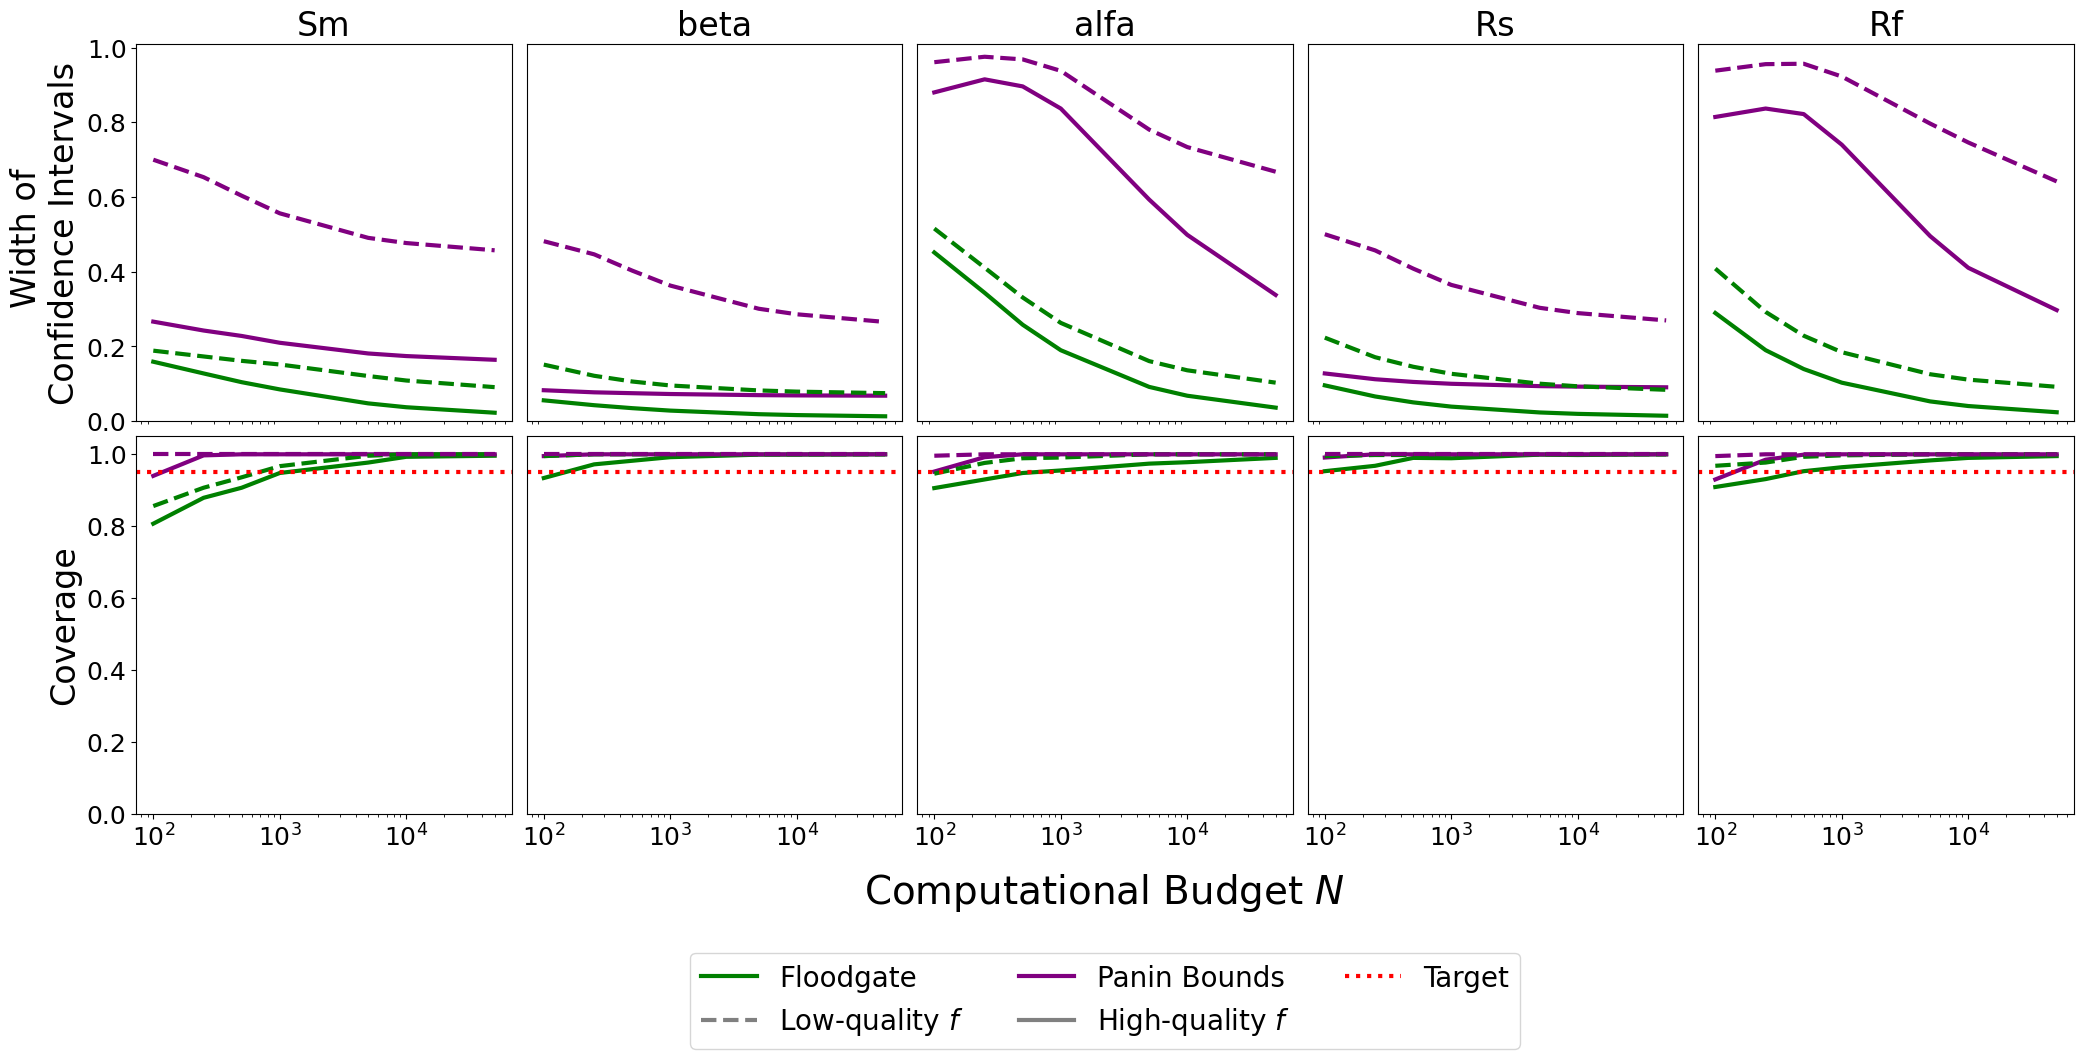
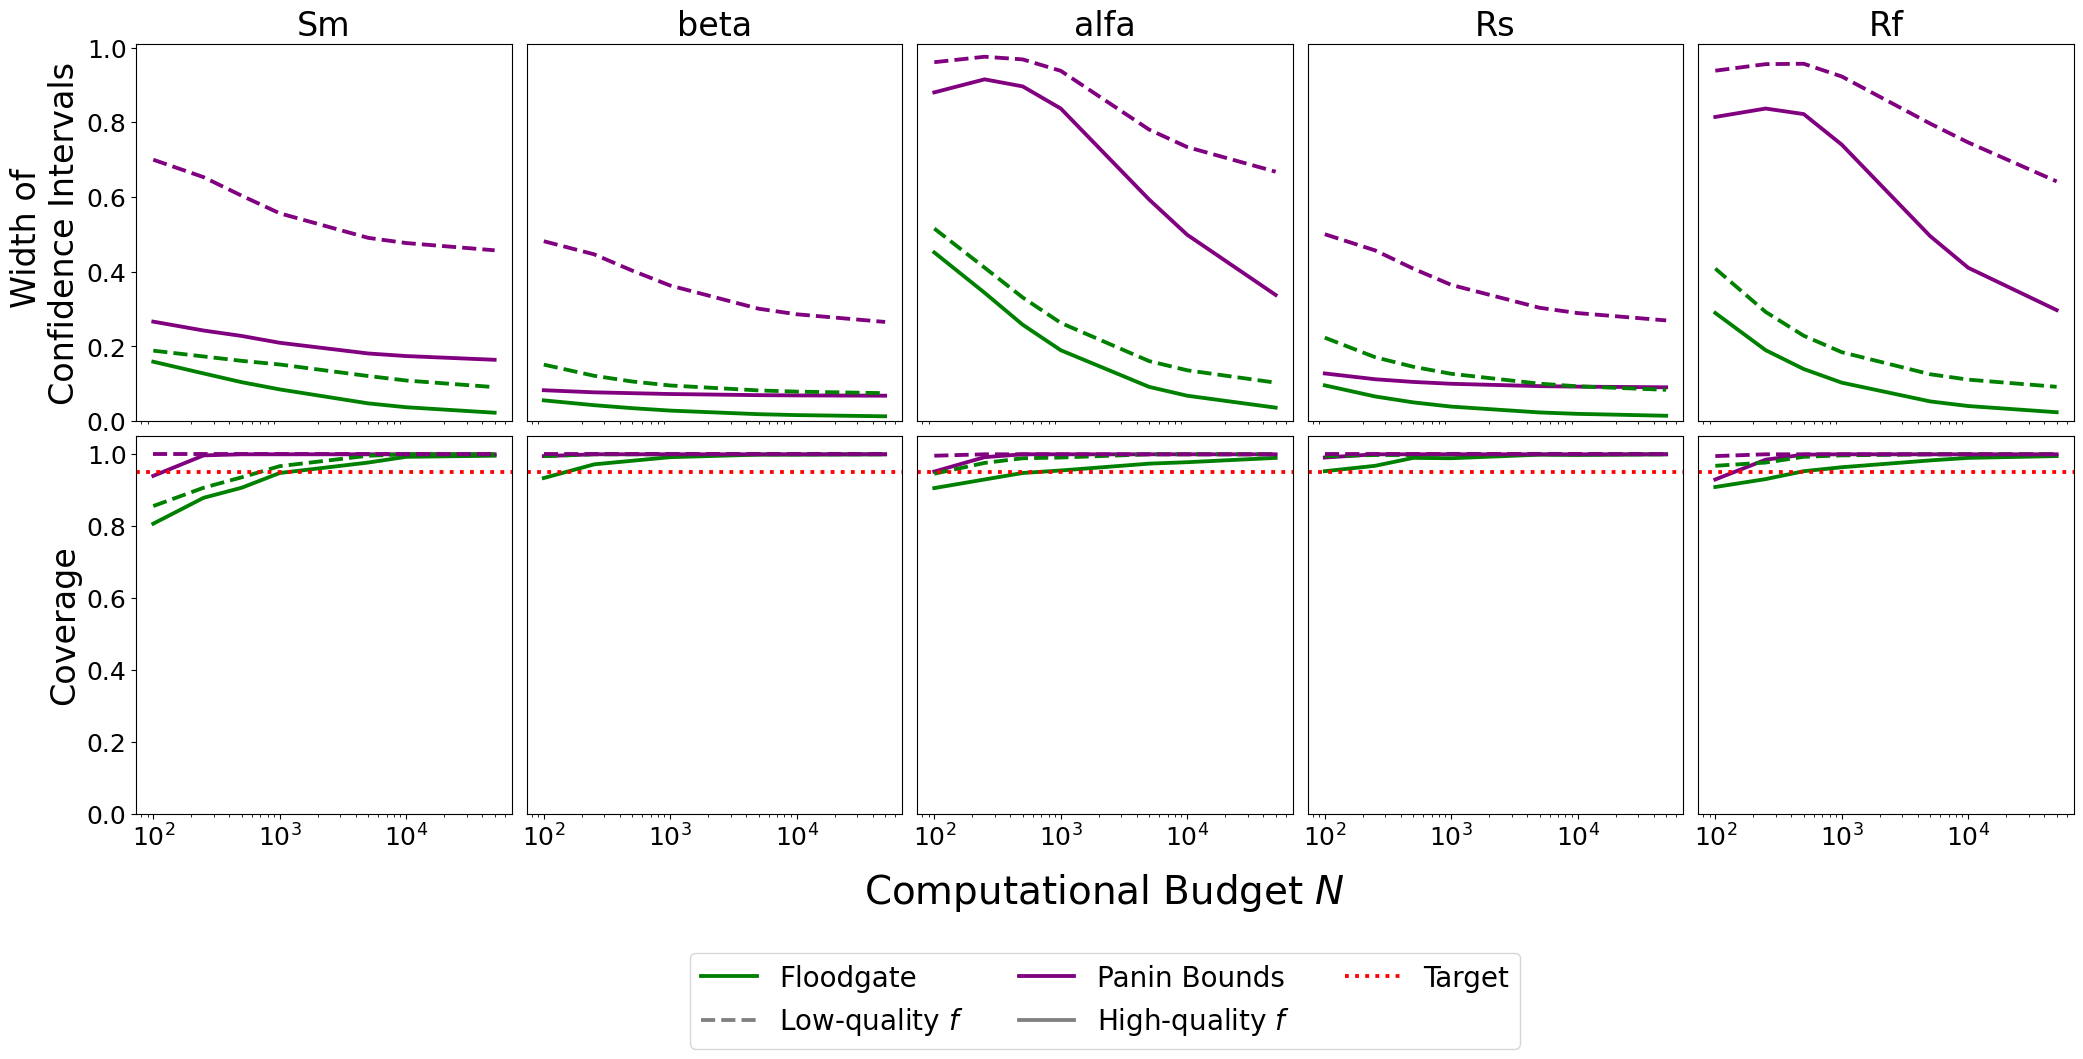
reformatted plots

diff --git a/plotting_scripts/Hymod.py b/plotting_scripts/Hymod.py
@@ -21,19 +21,21 @@ gt = np.load(DATA_DIR.format('.','.') + 'ground_truth.npy')
 
 
 # Plot formatting
+lw = 2.75
+
 SMALL_SIZE = 12
 MEDIUM_SIZE = 20
 BIG_SIZE = 24
 BIGGER_SIZE = 30
 HUGE_SIZE = 32
 
-plt.rc('font', size=SMALL_SIZE)          # controls default text sizes
+plt.rc('font', size=SMALL_SIZE)           # controls default text sizes
 plt.rc('axes', titlesize=BIGGER_SIZE)     # fontsize of the axes title
-plt.rc('axes', labelsize=BIGGER_SIZE)    # fontsize of the x and y labels
+plt.rc('axes', labelsize=BIGGER_SIZE)     # fontsize of the x and y labels
 plt.rc('xtick', labelsize=MEDIUM_SIZE)    # fontsize of the tick labels
 plt.rc('ytick', labelsize=MEDIUM_SIZE)    # fontsize of the tick labels
-plt.rc('legend', fontsize=BIG_SIZE)    # legend fontsize
-plt.rc('figure', titlesize=BIGGER_SIZE)  # fontsize of the figure title
+plt.rc('legend', fontsize=BIG_SIZE)       # legend fontsize
+plt.rc('figure', titlesize=BIGGER_SIZE)   # fontsize of the figure title
 
 
 ### Figure 1 ###
@@ -51,11 +53,11 @@ floodgate_mean = np.mean(floodgate, axis=0)
 floodgate_cov = np.mean((floodgate[:,:,:,0] < gt) * (floodgate[:,:,:,1] > gt), axis=0)
 
 for i in range(d):
-    ax[0,i].plot(sample_sizes, floodgate_mean[:,i,0], color='green', ls='-', lw=3, label='Floodgate')
-    ax[0,i].plot(sample_sizes, floodgate_mean[:,i,1], color='green', ls='-', lw=3)
-    ax[1,i].plot(sample_sizes, floodgate_cov[:,i], color='green', ls='-', lw=3)
+    ax[0,i].plot(sample_sizes, floodgate_mean[:,i,0], color='green', ls='-', lw=lw, label='Floodgate')
+    ax[0,i].plot(sample_sizes, floodgate_mean[:,i,1], color='green', ls='-', lw=lw)
+    ax[1,i].plot(sample_sizes, floodgate_cov[:,i], color='green', ls='-', lw=lw)
 
-ax[0,2].plot([0], [20], color='grey', ls='--', lw=3, label='Low-quality $f$')
+ax[0,2].plot([0], [20], color='grey', ls='--', lw=lw, label='Low-quality $f$')
 
 # Non-surrogate SPF
 for fp in os.listdir(DATA_DIR.format('spf', '.')):
@@ -65,11 +67,11 @@ spf_mean = np.mean(spf, axis=0)
 spf_cov = np.mean((spf[:,:,:,0] < gt) * (spf[:,:,:,1] > gt), axis=0)
 
 for i in range(d):
-    ax[0,i].plot(sample_sizes, spf_mean[:,i,0], color='blue', ls='-', lw=3, label='SPF $f^*$')
-    ax[0,i].plot(sample_sizes, spf_mean[:,i,1], color='blue', ls='-', lw=3)
-    ax[1,i].plot(sample_sizes, spf_cov[:,i], color='blue', ls='-', lw=3)
+    ax[0,i].plot(sample_sizes, spf_mean[:,i,0], color='blue', ls='-', lw=lw, label='SPF $f^*$')
+    ax[0,i].plot(sample_sizes, spf_mean[:,i,1], color='blue', ls='-', lw=lw)
+    ax[1,i].plot(sample_sizes, spf_cov[:,i], color='blue', ls='-', lw=lw)
 
-ax[0,2].plot([0], [20], color='grey', ls='-', lw=3, label='High-quality $f$')
+ax[0,2].plot([0], [20], color='grey', ls='-', lw=lw, label='High-quality $f$')
 
 # Surrogate SPF, high-quality surrogate
 for fp in os.listdir(DATA_DIR.format('spf_surrogate', '100000')):
@@ -79,9 +81,9 @@ spf_surrogate_mean = np.mean(spf_surrogate, axis=0)
 spf_surrogate_cov = np.mean((spf_surrogate[:,:,:,0] < gt) * (spf_surrogate[:,:,:,1] > gt), axis=0)
 
 for i in range(d):
-    ax[0,i].plot(sample_sizes, spf_surrogate_mean[:,i,0], color='orange', ls='-', lw=3, label='SPF $f$')
-    ax[0,i].plot(sample_sizes, spf_surrogate_mean[:,i,1], color='orange', ls='-', lw=3)
-    ax[1,i].plot(sample_sizes, spf_surrogate_cov[:,i], color='orange', ls='-', lw=3)
+    ax[0,i].plot(sample_sizes, spf_surrogate_mean[:,i,0], color='orange', ls='-', lw=lw, label='SPF $f$')
+    ax[0,i].plot(sample_sizes, spf_surrogate_mean[:,i,1], color='orange', ls='-', lw=lw)
+    ax[1,i].plot(sample_sizes, spf_surrogate_cov[:,i], color='orange', ls='-', lw=lw)
 
 
 floodgate = []
@@ -95,9 +97,9 @@ floodgate_mean = np.mean(floodgate, axis=0)
 floodgate_cov = np.mean((floodgate[:,:,:,0] < gt) * (floodgate[:,:,:,1] > gt), axis=0)
 
 for i in range(d):
-    ax[0,i].plot(sample_sizes, floodgate_mean[:,i,0], color='green', ls='--', lw=3)
-    ax[0,i].plot(sample_sizes, floodgate_mean[:,i,1], color='green', ls='--', lw=3)
-    ax[1,i].plot(sample_sizes, floodgate_cov[:,i], color='green', ls='--', lw=3)
+    ax[0,i].plot(sample_sizes, floodgate_mean[:,i,0], color='green', ls='--', lw=lw)
+    ax[0,i].plot(sample_sizes, floodgate_mean[:,i,1], color='green', ls='--', lw=lw)
+    ax[1,i].plot(sample_sizes, floodgate_cov[:,i], color='green', ls='--', lw=lw)
 
 # Surrogate SPF, low-quality surrogate
 for fp in os.listdir(DATA_DIR.format('spf_surrogate', '10000')):
@@ -107,9 +109,9 @@ spf_surrogate_mean = np.mean(spf_surrogate, axis=0)
 spf_surrogate_cov = np.mean((spf_surrogate[:,:,:,0] < gt) * (spf_surrogate[:,:,:,1] > gt), axis=0)
 
 for i in range(d):
-    ax[0,i].plot(sample_sizes, spf_surrogate_mean[:,i,0], color='orange', ls='--', lw=3)
-    ax[0,i].plot(sample_sizes, spf_surrogate_mean[:,i,1], color='orange', ls='--', lw=3)
-    ax[1,i].plot(sample_sizes, spf_surrogate_cov[:,i], color='orange', ls='--', lw=3)
+    ax[0,i].plot(sample_sizes, spf_surrogate_mean[:,i,0], color='orange', ls='--', lw=lw)
+    ax[0,i].plot(sample_sizes, spf_surrogate_mean[:,i,1], color='orange', ls='--', lw=lw)
+    ax[1,i].plot(sample_sizes, spf_surrogate_cov[:,i], color='orange', ls='--', lw=lw)
 
 
 
@@ -118,8 +120,8 @@ x_tick_labs = ['100', '1000', '10000', '100000']
 for i in range(d):
     ax[0,i].set(xscale='log', title=X_labels[i], ylim=(-.01,1))
     ax[1,i].set(xticks=x_ticks, xscale='log')
-    ax[0,i].axhline(y=gt[i], color='red', ls=':', lw=3, label='Target')
-    ax[1,i].axhline(y=0.95, color='red', ls=':', lw=3)
+    ax[0,i].axhline(y=gt[i], color='red', ls=':', lw=lw, label='Target')
+    ax[1,i].axhline(y=0.95, color='red', ls=':', lw=lw)
     ax[1,i].set_ylim((0,1.05))
     if i > 0:
         ax[0,i].set_yticks([])
@@ -171,10 +173,10 @@ floodgate_mean = np.mean(floodgate[:,:,:,1] - floodgate[:,:,:,0], axis=0)
 floodgate_cov = np.mean((floodgate[:,:,:,0] < gt) * (floodgate[:,:,:,1] > gt), axis=0)
 
 for i in range(d):
-    ax[0,i].plot(sample_sizes, floodgate_mean[:,i], color='green', ls='-', lw=3, label='Floodgate')
-    ax[1,i].plot(sample_sizes, floodgate_cov[:,i], color='green', ls='-', lw=3)
+    ax[0,i].plot(sample_sizes, floodgate_mean[:,i], color='green', ls='-', lw=lw, label='Floodgate')
+    ax[1,i].plot(sample_sizes, floodgate_cov[:,i], color='green', ls='-', lw=lw)
 
-ax[0,2].plot([0], [20], color='grey', ls='--', lw=3, label='Low-quality $f$')
+ax[0,2].plot([0], [20], color='grey', ls='--', lw=lw, label='Low-quality $f$')
 
 # Panin bound, high-quality surrogate
 for fp in os.listdir(DATA_DIR.format('panin', 100000)):
@@ -184,10 +186,10 @@ panin_mean = np.mean(panin[:,:,:,1] - panin[:,:,:,0], axis=0)
 panin_cov = np.mean((panin[:,:,:,0] < gt) * (panin[:,:,:,1] > gt), axis=0)
 
 for i in range(d):
-    ax[0,i].plot(sample_sizes, panin_mean[:,i], color='purple', ls='-', lw=3, label='Panin Bounds')
-    ax[1,i].plot(sample_sizes, panin_cov[:,i], color='purple', ls='-', lw=3)
+    ax[0,i].plot(sample_sizes, panin_mean[:,i], color='purple', ls='-', lw=lw, label='Panin Bounds')
+    ax[1,i].plot(sample_sizes, panin_cov[:,i], color='purple', ls='-', lw=lw)
 
-ax[0,2].plot([0], [20], color='grey', ls='-', lw=3, label='High-quality $f$')
+ax[0,2].plot([0], [20], color='grey', ls='-', lw=lw, label='High-quality $f$')
 
 
 floodgate = []
@@ -201,8 +203,8 @@ floodgate_mean = np.mean(floodgate[:,:,:,1] - floodgate[:,:,:,0], axis=0)
 floodgate_cov = np.mean((floodgate[:,:,:,0] < gt) * (floodgate[:,:,:,1] > gt), axis=0)
 
 for i in range(d):
-    ax[0,i].plot(sample_sizes, floodgate_mean[:,i], color='green', ls='--', lw=3)
-    ax[1,i].plot(sample_sizes, floodgate_cov[:,i], color='green', ls='--', lw=3)
+    ax[0,i].plot(sample_sizes, floodgate_mean[:,i], color='green', ls='--', lw=lw)
+    ax[1,i].plot(sample_sizes, floodgate_cov[:,i], color='green', ls='--', lw=lw)
 
 # Panin bound, low-quality surrogate
 for fp in os.listdir(DATA_DIR.format('panin', 10000)):
@@ -212,17 +214,17 @@ panin_mean = np.mean(panin[:,:,:,1] - panin[:,:,:,0], axis=0)
 panin_cov = np.mean((panin[:,:,:,0] < gt) * (panin[:,:,:,1] > gt), axis=0)
 
 for i in range(d):
-    ax[0,i].plot(sample_sizes, panin_mean[:,i], color='purple', ls='--', lw=3)
-    ax[1,i].plot(sample_sizes, panin_cov[:,i], color='purple', ls='--', lw=3)
+    ax[0,i].plot(sample_sizes, panin_mean[:,i], color='purple', ls='--', lw=lw)
+    ax[1,i].plot(sample_sizes, panin_cov[:,i], color='purple', ls='--', lw=lw)
 
-ax[0,2].plot([0], [20], color='red', ls=':', lw=3, label="Target")
+ax[0,2].plot([0], [20], color='red', ls=':', lw=lw, label="Target")
 
 
 # Plot formatting
 for i in range(d):
     ax[0,i].set(xscale='log', title=X_labels[i])
     ax[1,i].set(xticks=x_ticks, xscale='log')   
-    ax[1,i].axhline(y=0.95, color='red', ls=':', lw=3)
+    ax[1,i].axhline(y=0.95, color='red', ls=':', lw=lw)
     ax[0,i].set_ylim((0,1.01))
     ax[1,i].set_ylim((0,1.05))
     if i > 0:

diff --git a/plotting_scripts/CBMZ.py b/plotting_scripts/CBMZ.py
@@ -23,6 +23,8 @@ plot_subset = [2, 45, 10]
 
 ### Figure 3 ###
 # Plot formatting
+lw = 2
+
 plt.rc('font', size=6)           # controls default text sizes
 plt.rc('axes', titlesize=18)     # fontsize of the axes title
 plt.rc('axes', labelsize=20)     # fontsize of the x and y labels
@@ -39,14 +41,14 @@ spf = np.load(DATA_PATH.format('spf'))
 panin = np.load(DATA_PATH.format('panin'))
 
 for (i, idx) in enumerate(plot_subset):
-    ax[i].plot(sample_sizes, floodgate[:,idx,0], color='green', ls='-', lw=3, label='Floodgate')
-    ax[i].plot(sample_sizes, floodgate[:,idx,1], color='green', ls='-', lw=3)
+    ax[i].plot(sample_sizes, floodgate[:,idx,0], color='green', ls='-', lw=lw, label='Floodgate')
+    ax[i].plot(sample_sizes, floodgate[:,idx,1], color='green', ls='-', lw=lw)
 
-    ax[i].plot(sample_sizes, spf[:,idx,0], color='orange', ls='-', lw=3, label='SPF $f$')
-    ax[i].plot(sample_sizes, spf[:,idx,1], color='orange', ls='-', lw=3)
+    ax[i].plot(sample_sizes, spf[:,idx,0], color='orange', ls='-', lw=lw, label='SPF $f$')
+    ax[i].plot(sample_sizes, spf[:,idx,1], color='orange', ls='-', lw=lw)
 
-    ax[i].plot(sample_sizes, panin[:,idx,0], color='purple', ls='-', lw=3, label='Panin Bounds')
-    ax[i].plot(sample_sizes, panin[:,idx,1], color='purple', ls='-', lw=3)
+    ax[i].plot(sample_sizes, panin[:,idx,0], color='purple', ls='-', lw=lw, label='Panin Bounds')
+    ax[i].plot(sample_sizes, panin[:,idx,1], color='purple', ls='-', lw=lw)
 
 
 x_ticks = [1000, 10000, 100000]
@@ -72,6 +74,8 @@ plt.savefig(FIG_DIR + 'CBMZ_bounds.png', bbox_inches="tight")
 
 ### Figure 4 ###
 # Plot formatting
+lw = 2.5
+
 plt.rc('font', size=24)          # controls default text sizes
 plt.rc('axes', titlesize=42)     # fontsize of the axes title
 plt.rc('axes', labelsize=85)     # fontsize of the x and y labels
@@ -84,14 +88,14 @@ plt.rc('figure', titlesize=60)   # fontsize of the figure title
 fig, ax = plt.subplots(13, 8, figsize=(85,130))
 
 for (i, ax_) in enumerate(ax.ravel()[:d]):
-    ax_.plot(sample_sizes, floodgate[:,i,0], color='green', ls='-', lw=3, label='Floodgate')
-    ax_.plot(sample_sizes, floodgate[:,i,1], color='green', ls='-', lw=3)
+    ax_.plot(sample_sizes, floodgate[:,i,0], color='green', ls='-', lw=lw, label='Floodgate')
+    ax_.plot(sample_sizes, floodgate[:,i,1], color='green', ls='-', lw=lw)
 
-    ax_.plot(sample_sizes, spf[:,i,0], color='orange', ls='-', lw=3, label='SPF $f$')
-    ax_.plot(sample_sizes, spf[:,i,1], color='orange', ls='-', lw=3)
+    ax_.plot(sample_sizes, spf[:,i,0], color='orange', ls='-', lw=lw, label='SPF $f$')
+    ax_.plot(sample_sizes, spf[:,i,1], color='orange', ls='-', lw=lw)
 
-    ax_.plot(sample_sizes, panin[:,i,0], color='purple', ls='-', lw=3, label='Panin Bounds')
-    ax_.plot(sample_sizes, panin[:,i,1], color='purple', ls='-', lw=3)
+    ax_.plot(sample_sizes, panin[:,i,0], color='purple', ls='-', lw=lw, label='Panin Bounds')
+    ax_.plot(sample_sizes, panin[:,i,1], color='purple', ls='-', lw=lw)
 
 
 
